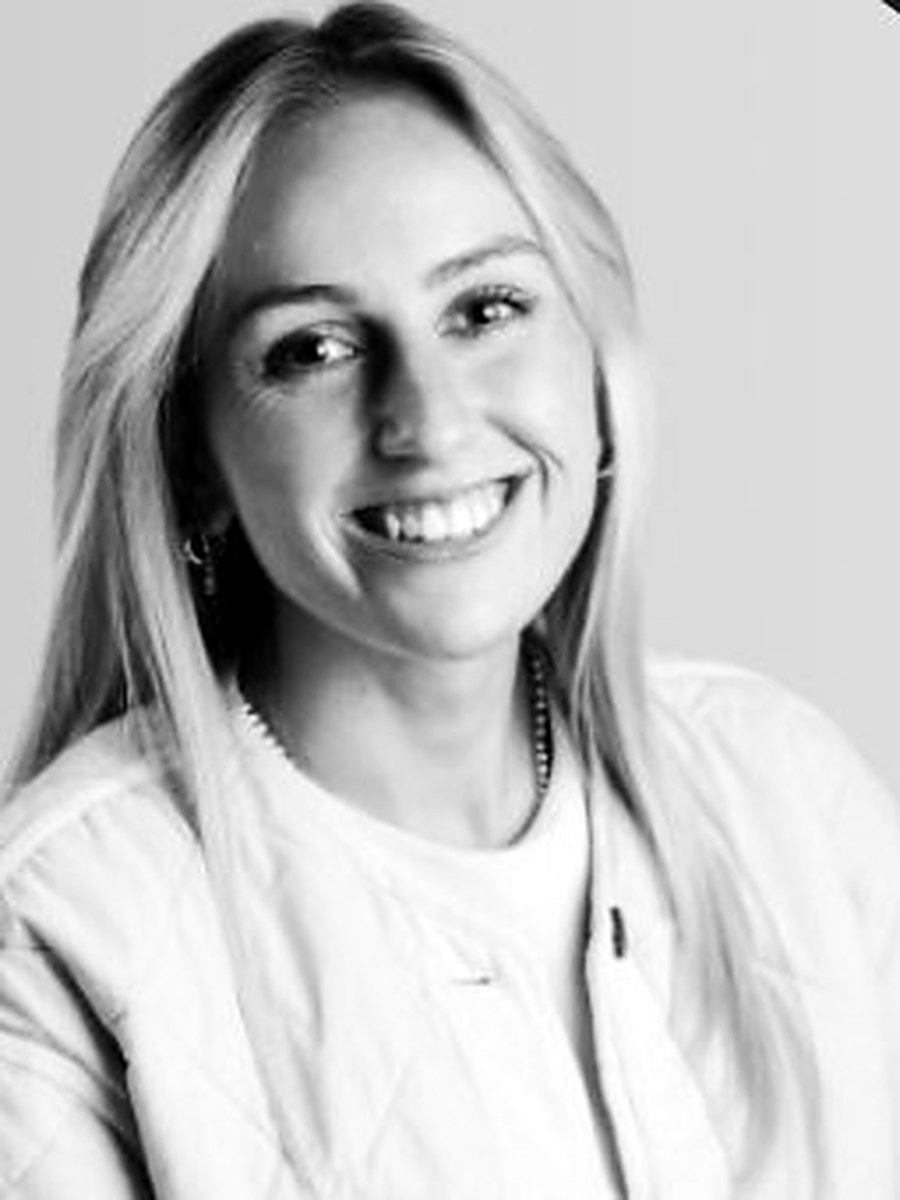
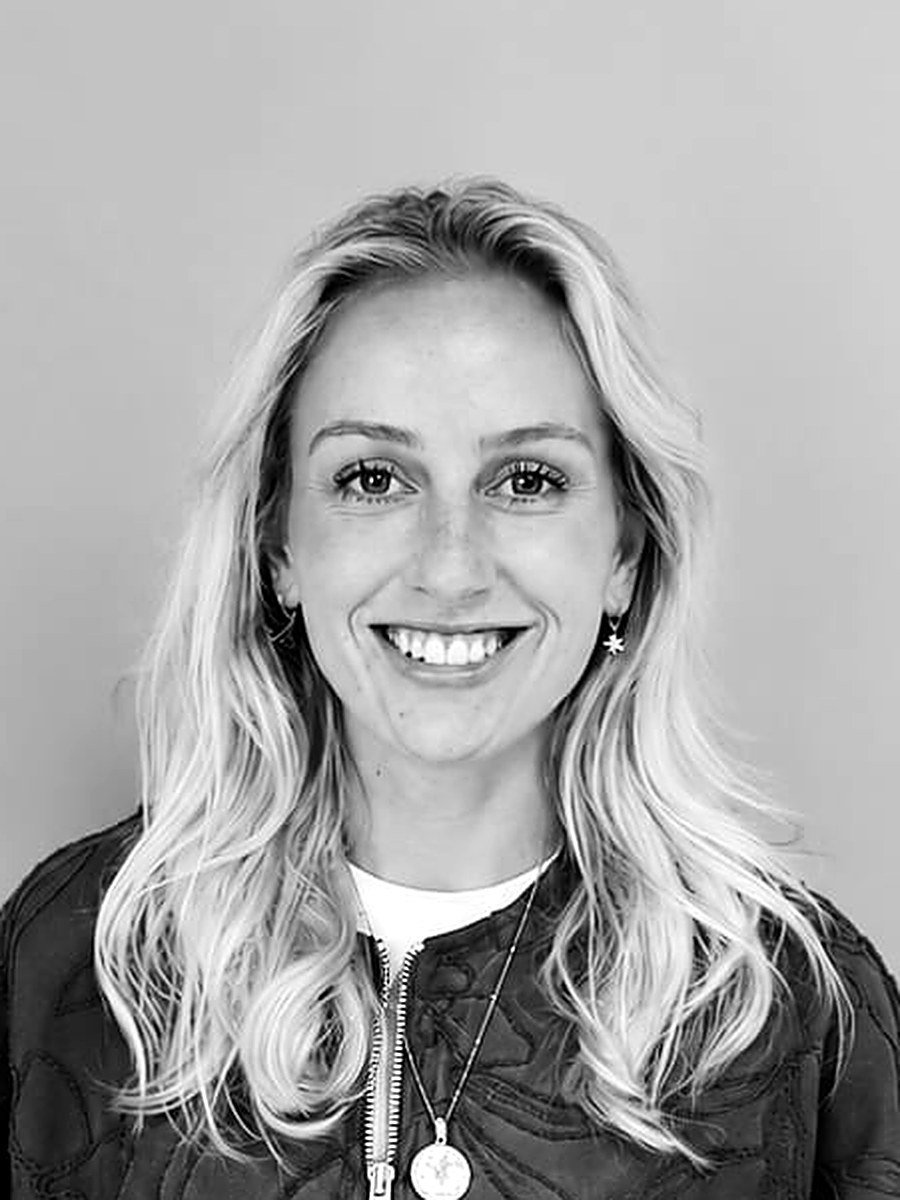
Website: client photos from the share drive on the Leasing sectors and centres
Sector heroes and One New Change, Cardinal Place and Bullring tiles use
Emmy's "Images for website" folders (ONC, Landsec, Hammerson, Grosvenor,
GPE). Luke Donohoe and Emily Cann recropped from the Headshots 2026
originals; the crop script now trusts the alt2 face detector first.

Claude-Session: https://claude.ai/code/session_01VWYEsv9bQyCv1sfuch6PLS

diff --git a/marketing/src/lib/content.ts b/marketing/src/lib/content.ts
@@ -696,7 +696,7 @@ export const LEASING_SECTORS: LeasingSector[] = [
     name: "Shopping Centres",
     approved: true,
     approvedBy: "VB & ED",
-    image: "/images/stills-preview-central-cafe.jpg",
+    image: "/images/sectors/shopping-centres.jpg",
     headline:
       "We advise on 21 shopping centres across the UK; from some of London's leading mixed-use destinations and major regional shopping centres to new developments under construction.",
     body: [
@@ -713,7 +713,7 @@ export const LEASING_SECTORS: LeasingSector[] = [
     slug: "london-estates",
     name: "London Estates",
     approved: false,
-    image: "/images/grosvenor-square.jpg",
+    image: "/images/sectors/london-estates.jpg",
     headline: "We are proud to have worked across many of London's most prestigious estates for more than 15 years.",
     body: [
       "We believe that building destinations across London's estates requires a highly considered approach. Our Leasing team works with estate owners and landlords to identify opportunities, attract the right occupiers and deliver strategies that enhance the character and commercial performance of their portfolios.",
@@ -726,7 +726,7 @@ export const LEASING_SECTORS: LeasingSector[] = [
     slug: "city",
     name: "The City",
     approved: false,
-    image: "/images/city-towers.jpg",
+    image: "/images/sectors/city.jpg",
     headline:
       "We act on a range of destinations within the Square Mile, and understand the unique opportunities and considerations that come with leasing this part of London.",
     body: [
@@ -739,7 +739,7 @@ export const LEASING_SECTORS: LeasingSector[] = [
     slug: "high-streets",
     name: "High Streets",
     approved: false,
-    image: "/images/shop-browse.jpg",
+    image: "/images/sectors/high-streets.jpg",
     headline:
       "Our High Street Leasing team works on a diverse range of High Streets throughout London and across the UK.",
     body: [
@@ -762,8 +762,8 @@ export interface ShoppingCentre {
 
 // From the "BGP shopping centres" table in Emmy's copy document.
 export const SHOPPING_CENTRES: ShoppingCentre[] = [
-  { slug: "one-new-change", name: "One New Change", location: "London", contacts: ["Charlotte Roberts", "Emily Cann"], draftBlurb: "Landsec's mixed-use destination beside St Paul's Cathedral, with a rooftop terrace and strong City lunch and after-work trade." },
-  { slug: "cardinal-place", name: "Cardinal Place", location: "London", contacts: ["Charlotte Roberts", "Emily Cann"], draftBlurb: "Retail and dining at the heart of Victoria, serving the office and commuter catchment around Victoria Station." },
+  { slug: "one-new-change", name: "One New Change", location: "London", image: "/images/centres/one-new-change.jpg", contacts: ["Charlotte Roberts", "Emily Cann"], draftBlurb: "Landsec's mixed-use destination beside St Paul's Cathedral, with a rooftop terrace and strong City lunch and after-work trade." },
+  { slug: "cardinal-place", name: "Cardinal Place", location: "London", image: "/images/centres/cardinal-place.jpg", contacts: ["Charlotte Roberts", "Emily Cann"], draftBlurb: "Retail and dining at the heart of Victoria, serving the office and commuter catchment around Victoria Station." },
   { slug: "o2-finchley-road", name: "O2 Finchley Road", location: "London", contacts: ["Victoria Broadhead", "Ben Sykes"], draftBlurb: "A leisure-led north London centre anchored by cinema and gym, serving a dense residential catchment." },
   { slug: "lewisham-shopping-centre", name: "Lewisham Shopping Centre", location: "London", contacts: ["Victoria Broadhead", "Ben Sykes"], draftBlurb: "The retail heart of Lewisham town centre, at the centre of a major south-east London regeneration area." },
   { slug: "brent-cross", name: "Brent Cross", location: "London", contacts: ["Charlotte Roberts", "Emily Dumbell", "Alex Todd"], draftBlurb: "One of the UK's first major shopping centres, in north London, with a new town centre rising alongside it." },
@@ -771,7 +771,7 @@ export const SHOPPING_CENTRES: ShoppingCentre[] = [
   { slug: "oracle", name: "The Oracle", location: "Reading", contacts: ["Charlotte Roberts", "Emily Dumbell", "Alex Todd"], draftBlurb: "Reading's riverside shopping and dining destination along the Kennet." },
   { slug: "westgate", name: "Westgate", location: "Oxford", contacts: ["Victoria Broadhead", "Ben Sykes"], draftBlurb: "Oxford's city-centre shopping and dining destination, with a rooftop restaurant terrace." },
   { slug: "gunwharf-quays", name: "Gunwharf Quays", location: "Portsmouth", contacts: ["Victoria Broadhead", "Emily Dumbell"], draftBlurb: "Portsmouth's waterfront outlet shopping and leisure destination beneath the Spinnaker Tower." },
-  { slug: "bullring", name: "Bullring", location: "Birmingham", contacts: ["Charlotte Roberts", "Emily Dumbell", "Alex Todd"], draftBlurb: "Birmingham's flagship city-centre shopping destination, home to Selfridges." },
+  { slug: "bullring", name: "Bullring", location: "Birmingham", image: "/images/centres/bullring.jpg", contacts: ["Charlotte Roberts", "Emily Dumbell", "Alex Todd"], draftBlurb: "Birmingham's flagship city-centre shopping destination, home to Selfridges." },
   { slug: "grand-central", name: "Grand Central", location: "Birmingham", contacts: ["Charlotte Roberts", "Emily Dumbell", "Alex Todd"], draftBlurb: "The dining and retail destination above Birmingham New Street station." },
   { slug: "trinity-leeds", name: "Trinity Leeds", location: "Leeds", contacts: ["Emily Dumbell", "Alex Todd"], draftBlurb: "The Leeds city-centre destination mixing retail with dining and leisure under its glass roof." },
   { slug: "white-rose", name: "White Rose", location: "Leeds", contacts: ["Emily Dumbell", "Alex Todd"], draftBlurb: "Leeds' out-of-town shopping and leisure centre, with cinema and dining." },

diff --git a/marketing/src/pages/LeasingSector.tsx b/marketing/src/pages/LeasingSector.tsx
@@ -26,7 +26,8 @@ export default function LeasingSector() {
   const sector = LEASING_SECTORS.find((s) => s.slug === params?.slug);
   if (!sector || (!sector.approved && !draft)) return <NotFound />;
   const contacts = peopleNamed(team, sector.contacts);
-  const centres = sector.slug === "shopping-centres" ? SHOPPING_CENTRES : [];
+  // Photographed centres lead the grid so the image tiles sit together.
+  const centres = sector.slug === "shopping-centres" ? [...SHOPPING_CENTRES].sort((a, b) => Number(!!b.image) - Number(!!a.image)) : [];
 
   return (
     <div>

diff --git a/marketing/scripts/crop-headshots.py b/marketing/scripts/crop-headshots.py
@@ -10,7 +10,7 @@ share={"woody-bruce":"Woody Bruce","tracey-pollard":"Tracey Pollard","charlotte-
  "lucy-cope":"Lucy Cope","evie-north":"Evie North","alex-todd":"Alex Todd","millie-edwards":"Millie Edwards",
  "will-penfold":"Will Penfold","libby-evans":"Libby Evans","layla-odriscoll":"Layla O'Driscoll","cara-milligan":"Cara Milligan"}
 bundled_only=["emily-cann","jonny-palmer","luke-donohoe"]
-casc=[cv2.CascadeClassifier(cv2.data.haarcascades+n) for n in ("haarcascade_frontalface_default.xml","haarcascade_frontalface_alt2.xml","haarcascade_profileface.xml")]
+casc=[cv2.CascadeClassifier(cv2.data.haarcascades+n) for n in ("haarcascade_frontalface_alt2.xml","haarcascade_frontalface_default.xml","haarcascade_profileface.xml")]
 W,H=900,1200
 FACE_FRAC=0.47   # face box width as fraction of output width
 FACE_CY=0.44     # face centre as fraction of output height
